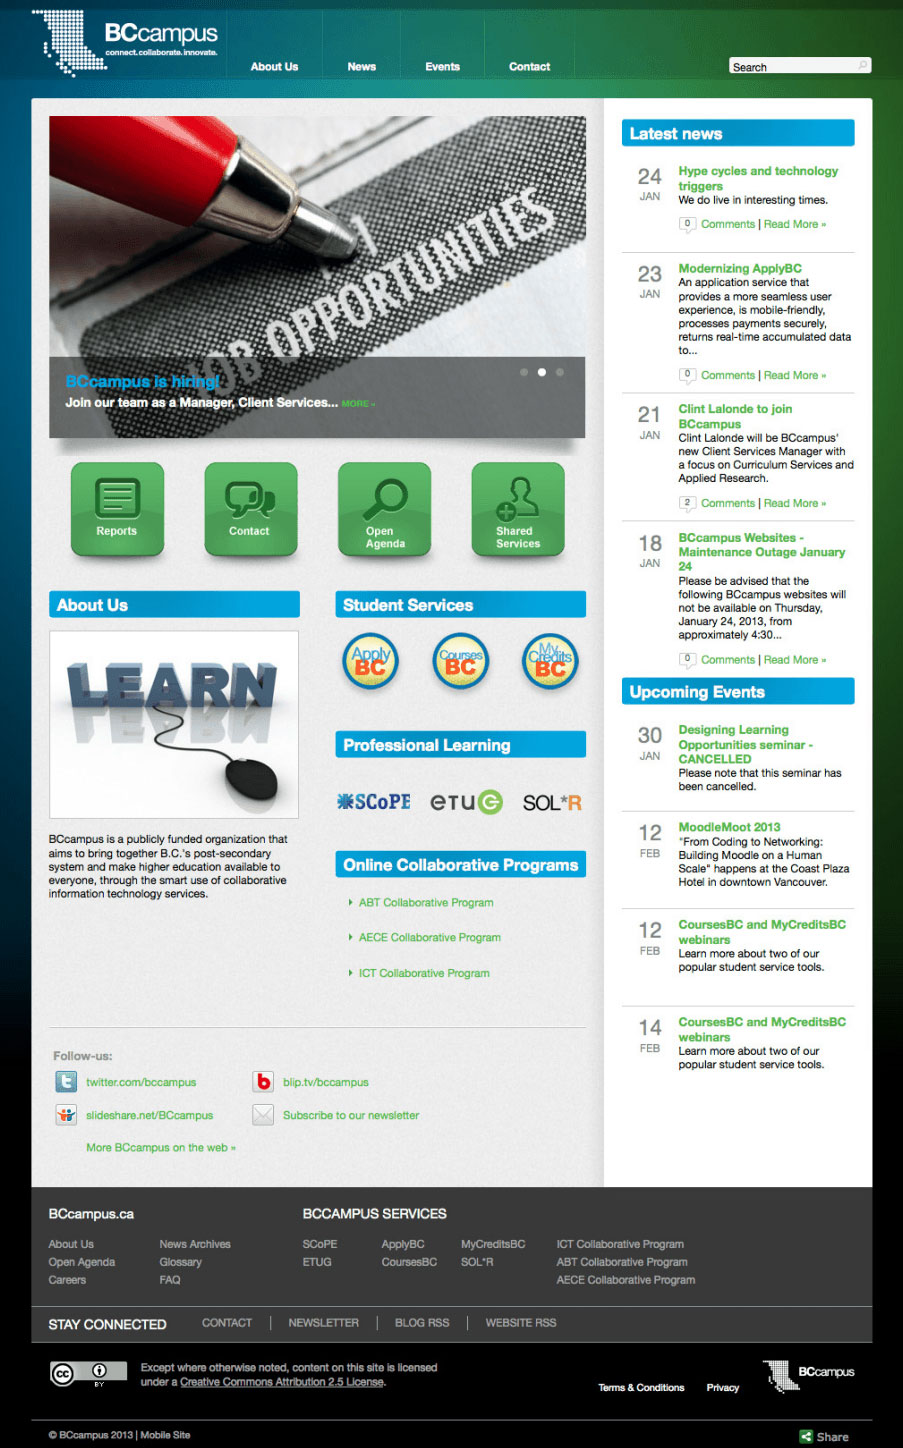
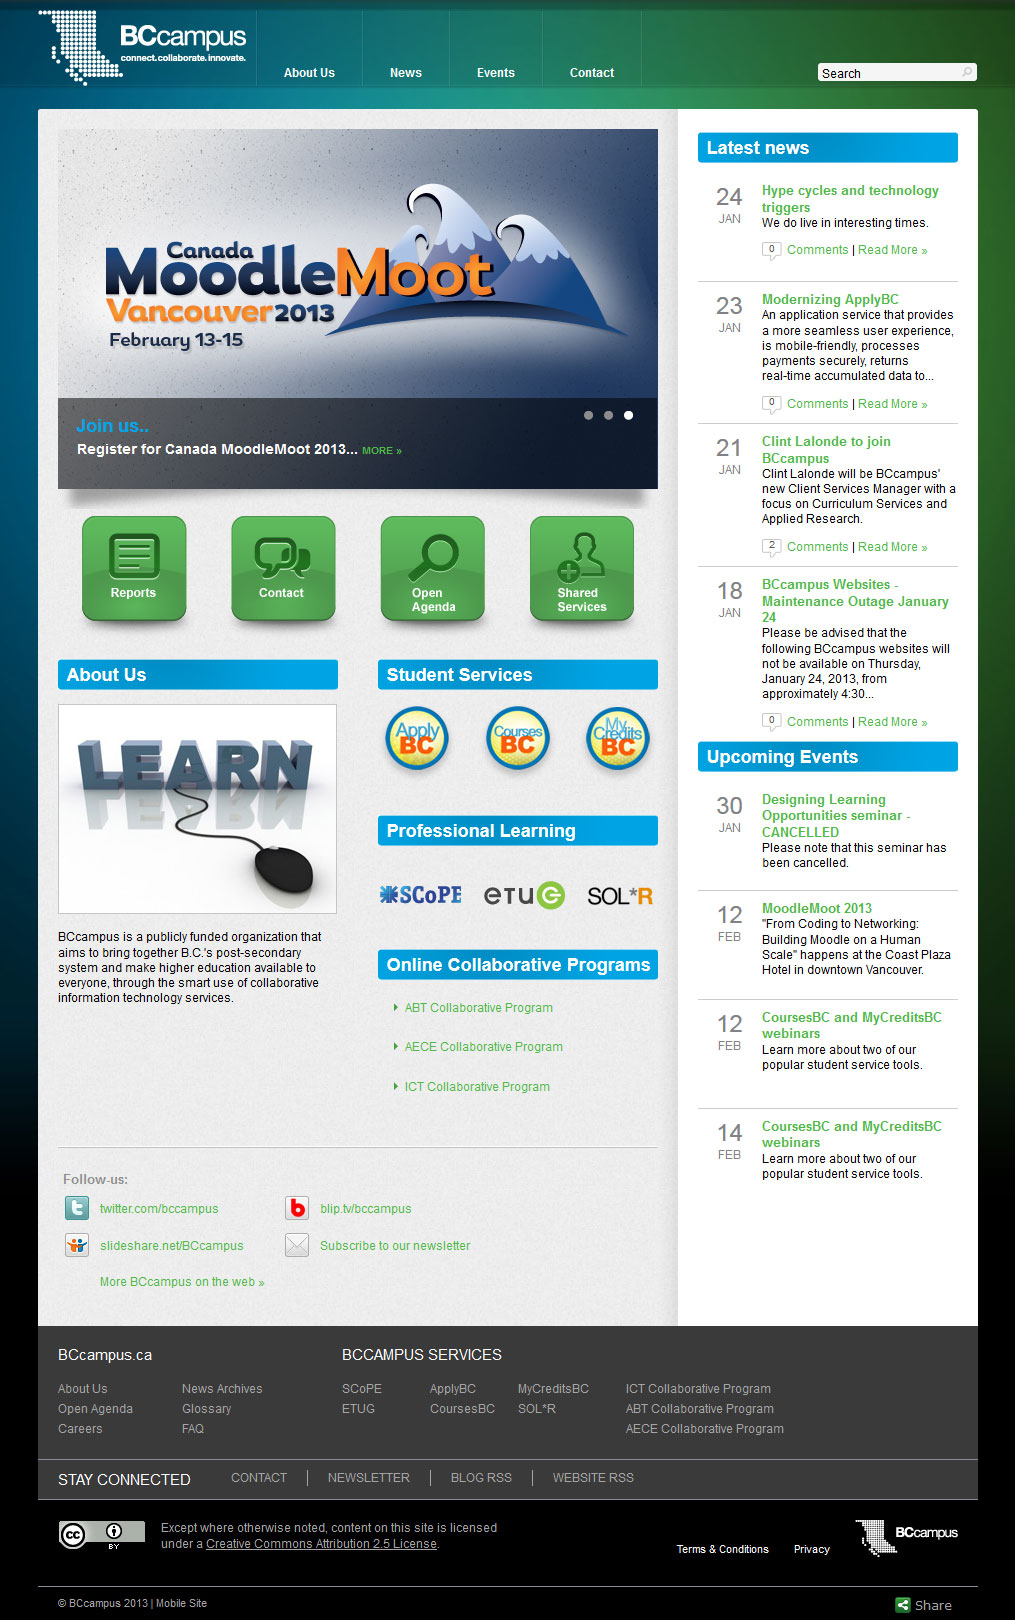
changed the BCcampus Jan 2013 screenshot image using the Internet Archive: carousel image is too distracting

diff --git a/work/index.html b/work/index.html
@@ -62,7 +62,7 @@
                                 <div class="col-1of3-work-figure">
                                     <div class="main-work-listing-figure">
                                         <figure>
-                                            <a href="bccampus.html"><img src="img/bccampus-website-screenshot-cropped.png" alt="BCcampus website screenshot"></a>
+                                            <a href="bccampus.html"><img src="img/bcc-website-screenshot-cropped.jpg" alt="BCcampus website screenshot"></a>
                                         </figure>
                                     </div>
                                 </div>
